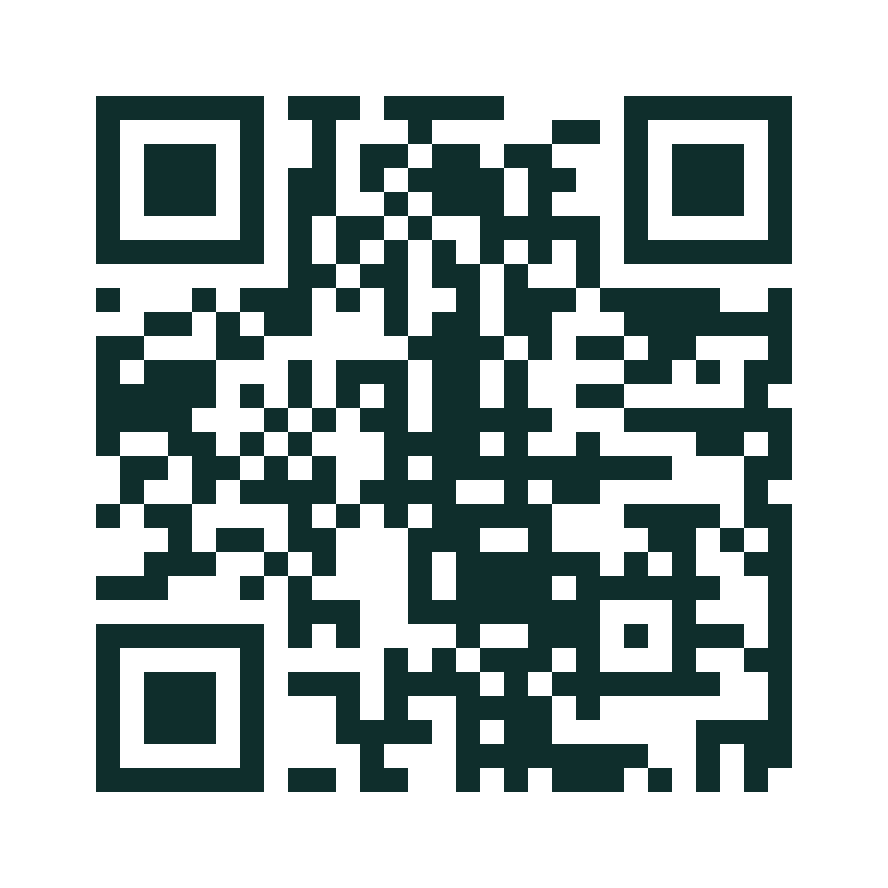
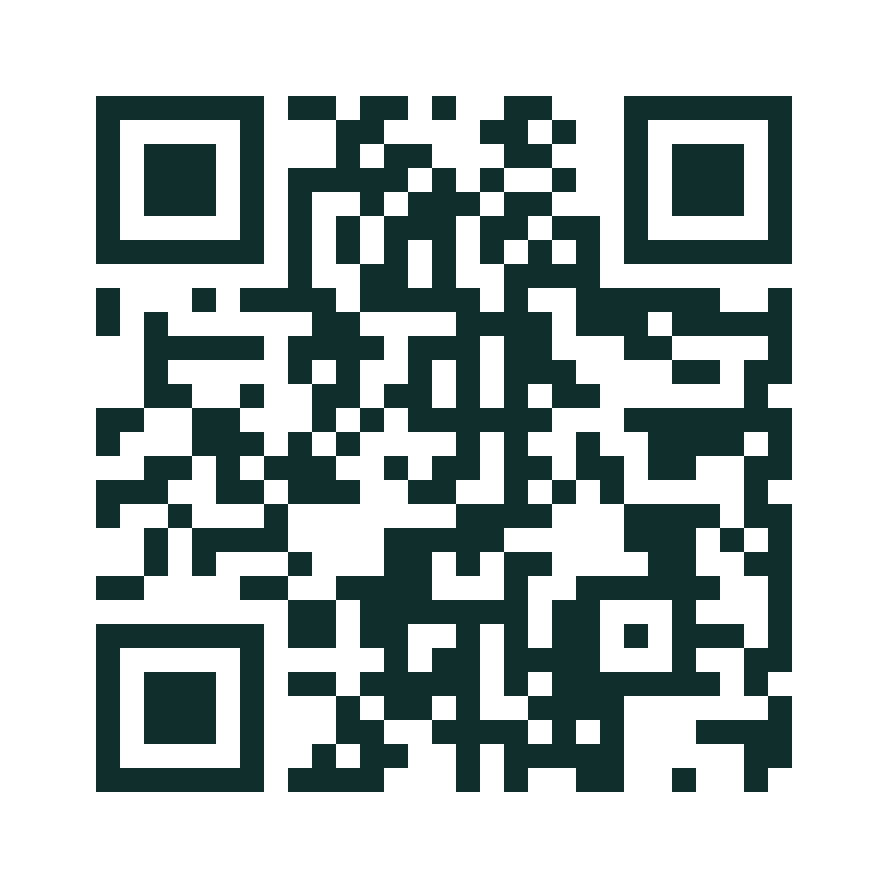
Move demo to 1jjl7: link, QR, team names

diff --git a/qr/make_qr.py b/qr/make_qr.py
@@ -13,7 +13,7 @@ import qrcode
 import qrcode.image.svg
 
 HERE = Path(__file__).parent
-url = sys.argv[1] if len(sys.argv) > 1 else "https://mnabil-11.github.io/mikyal-demo/"
+url = sys.argv[1] if len(sys.argv) > 1 else "https://1jjl7.github.io/mikyal-demo/"
 
 q = qrcode.QRCode(error_correction=qrcode.constants.ERROR_CORRECT_M, box_size=24, border=4)
 q.add_data(url)

diff --git a/README.md b/README.md
@@ -2,7 +2,9 @@
 
 نموذج أولي لهاكاثون الفقد والهدر الغذائي (التحدي 04). يقترح لمدير قسم الطازج أو الشيف **كم يطلب أو يخبز من كل صنف بكرة**، ومع كل رقم **سبب مفهوم**.
 
-**جرّبه:** https://mnabil-11.github.io/mikyal-demo/ (رمز QR في `qr/`)
+**جرّبه:** https://1jjl7.github.io/mikyal-demo/ (رمز QR في `qr/`)
+
+فريق **أثر**: أحمد ماهر مثنى ([1jjl7](https://github.com/1jjl7)) · محمد نبيل · عبدالعزيز ماهر مثنى
 
 - `engine/`: المحرك (Python): المحاكاة، التوصيات، الاختبار العكسي.
 - `web/`: الواجهة (صفحة ثابتة، تُنشر على GitHub Pages).
